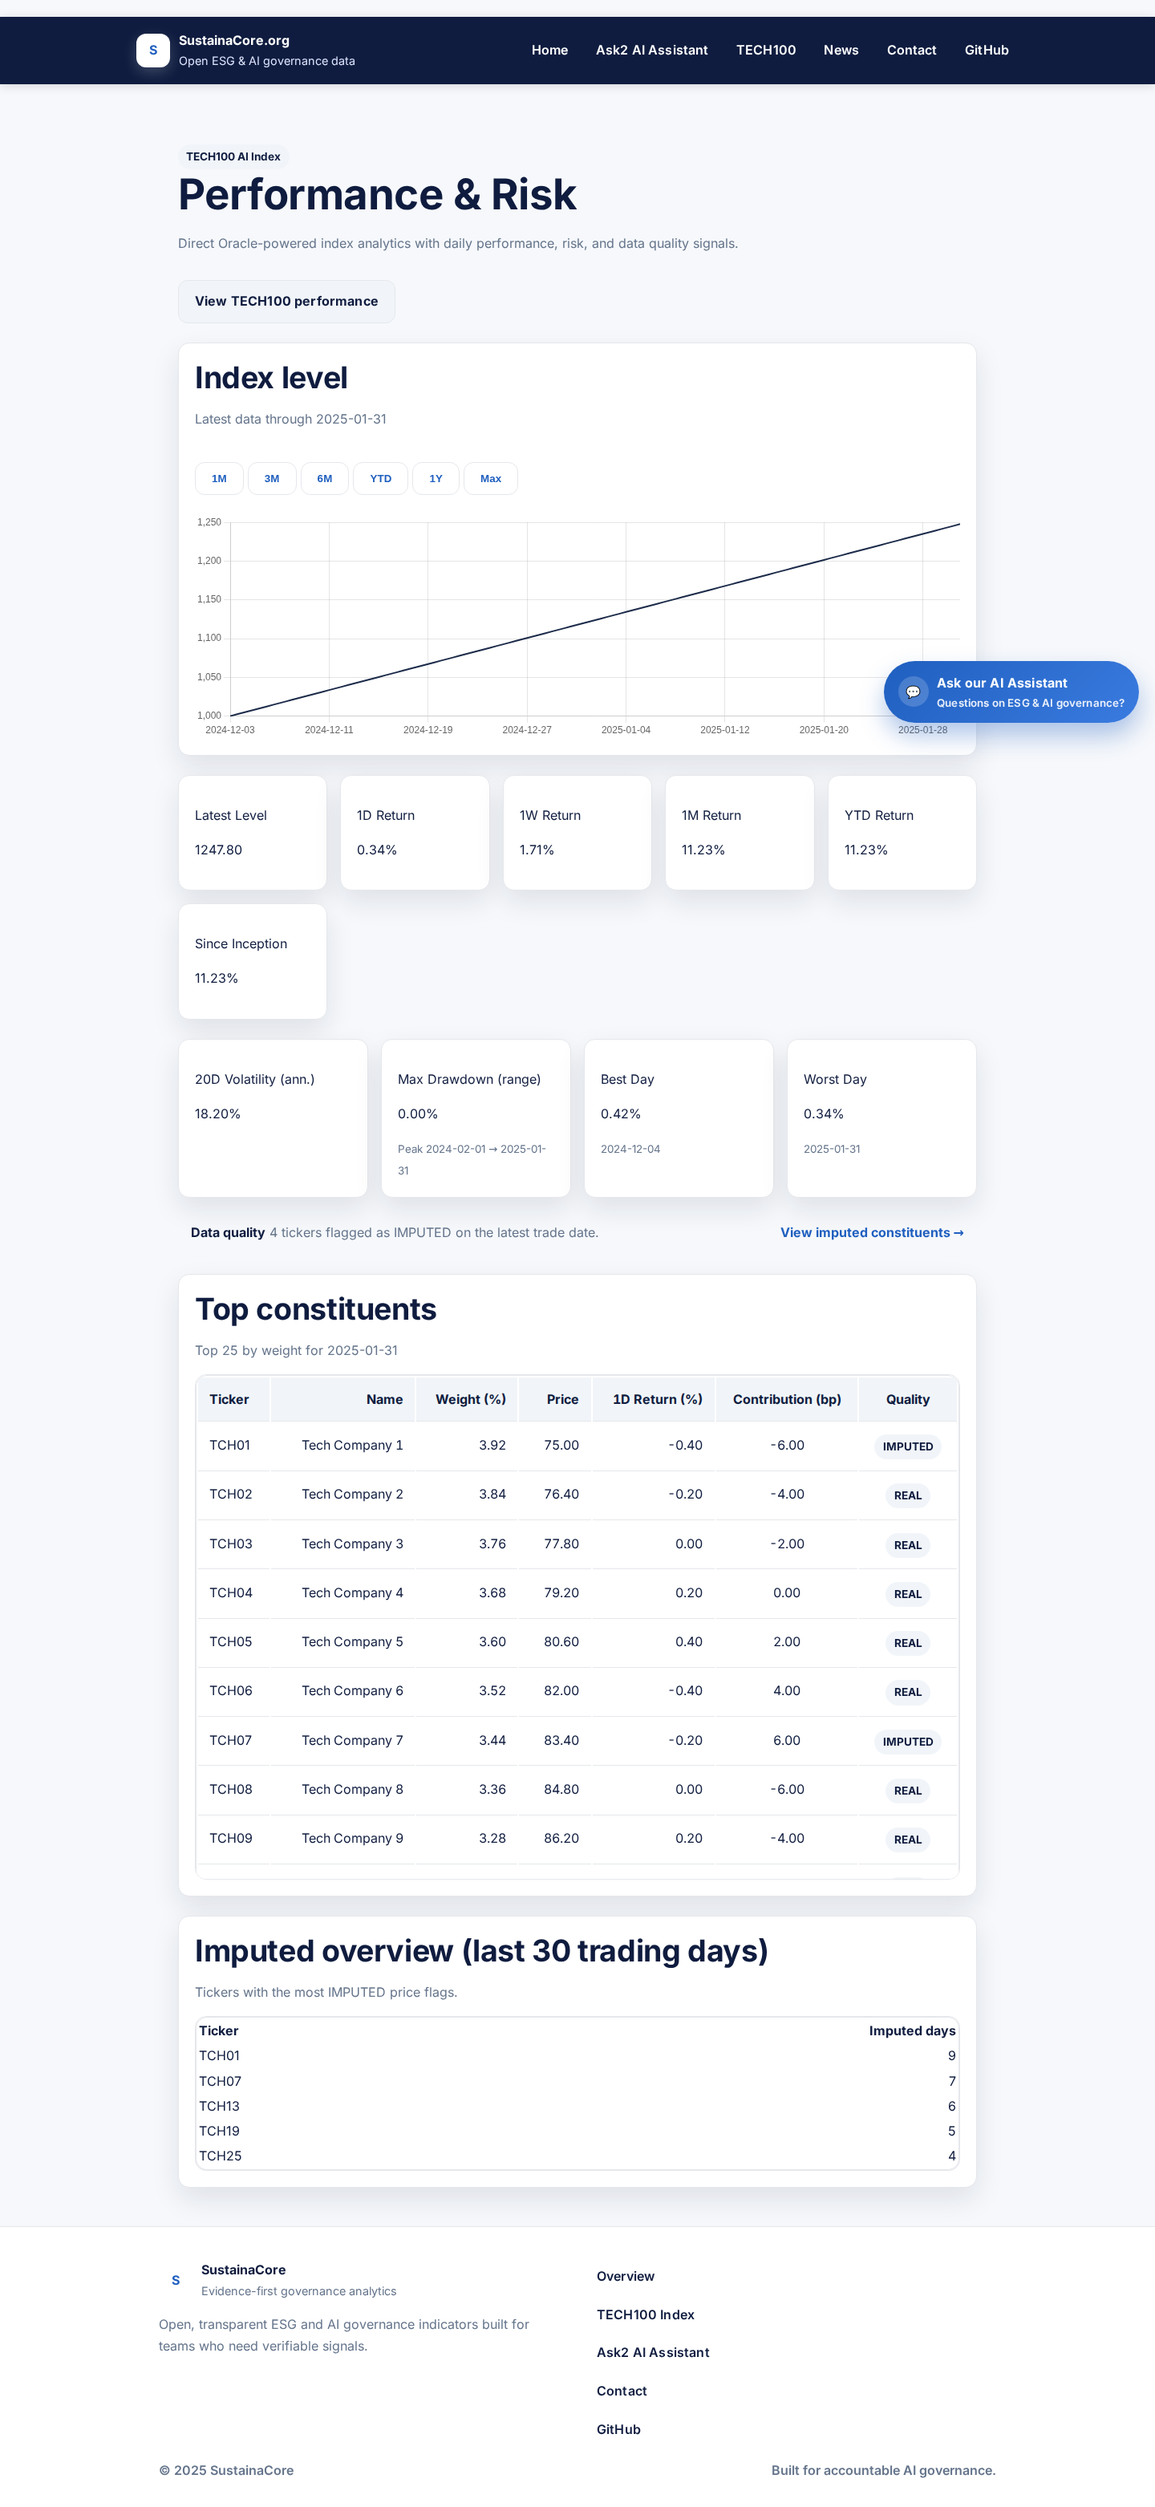
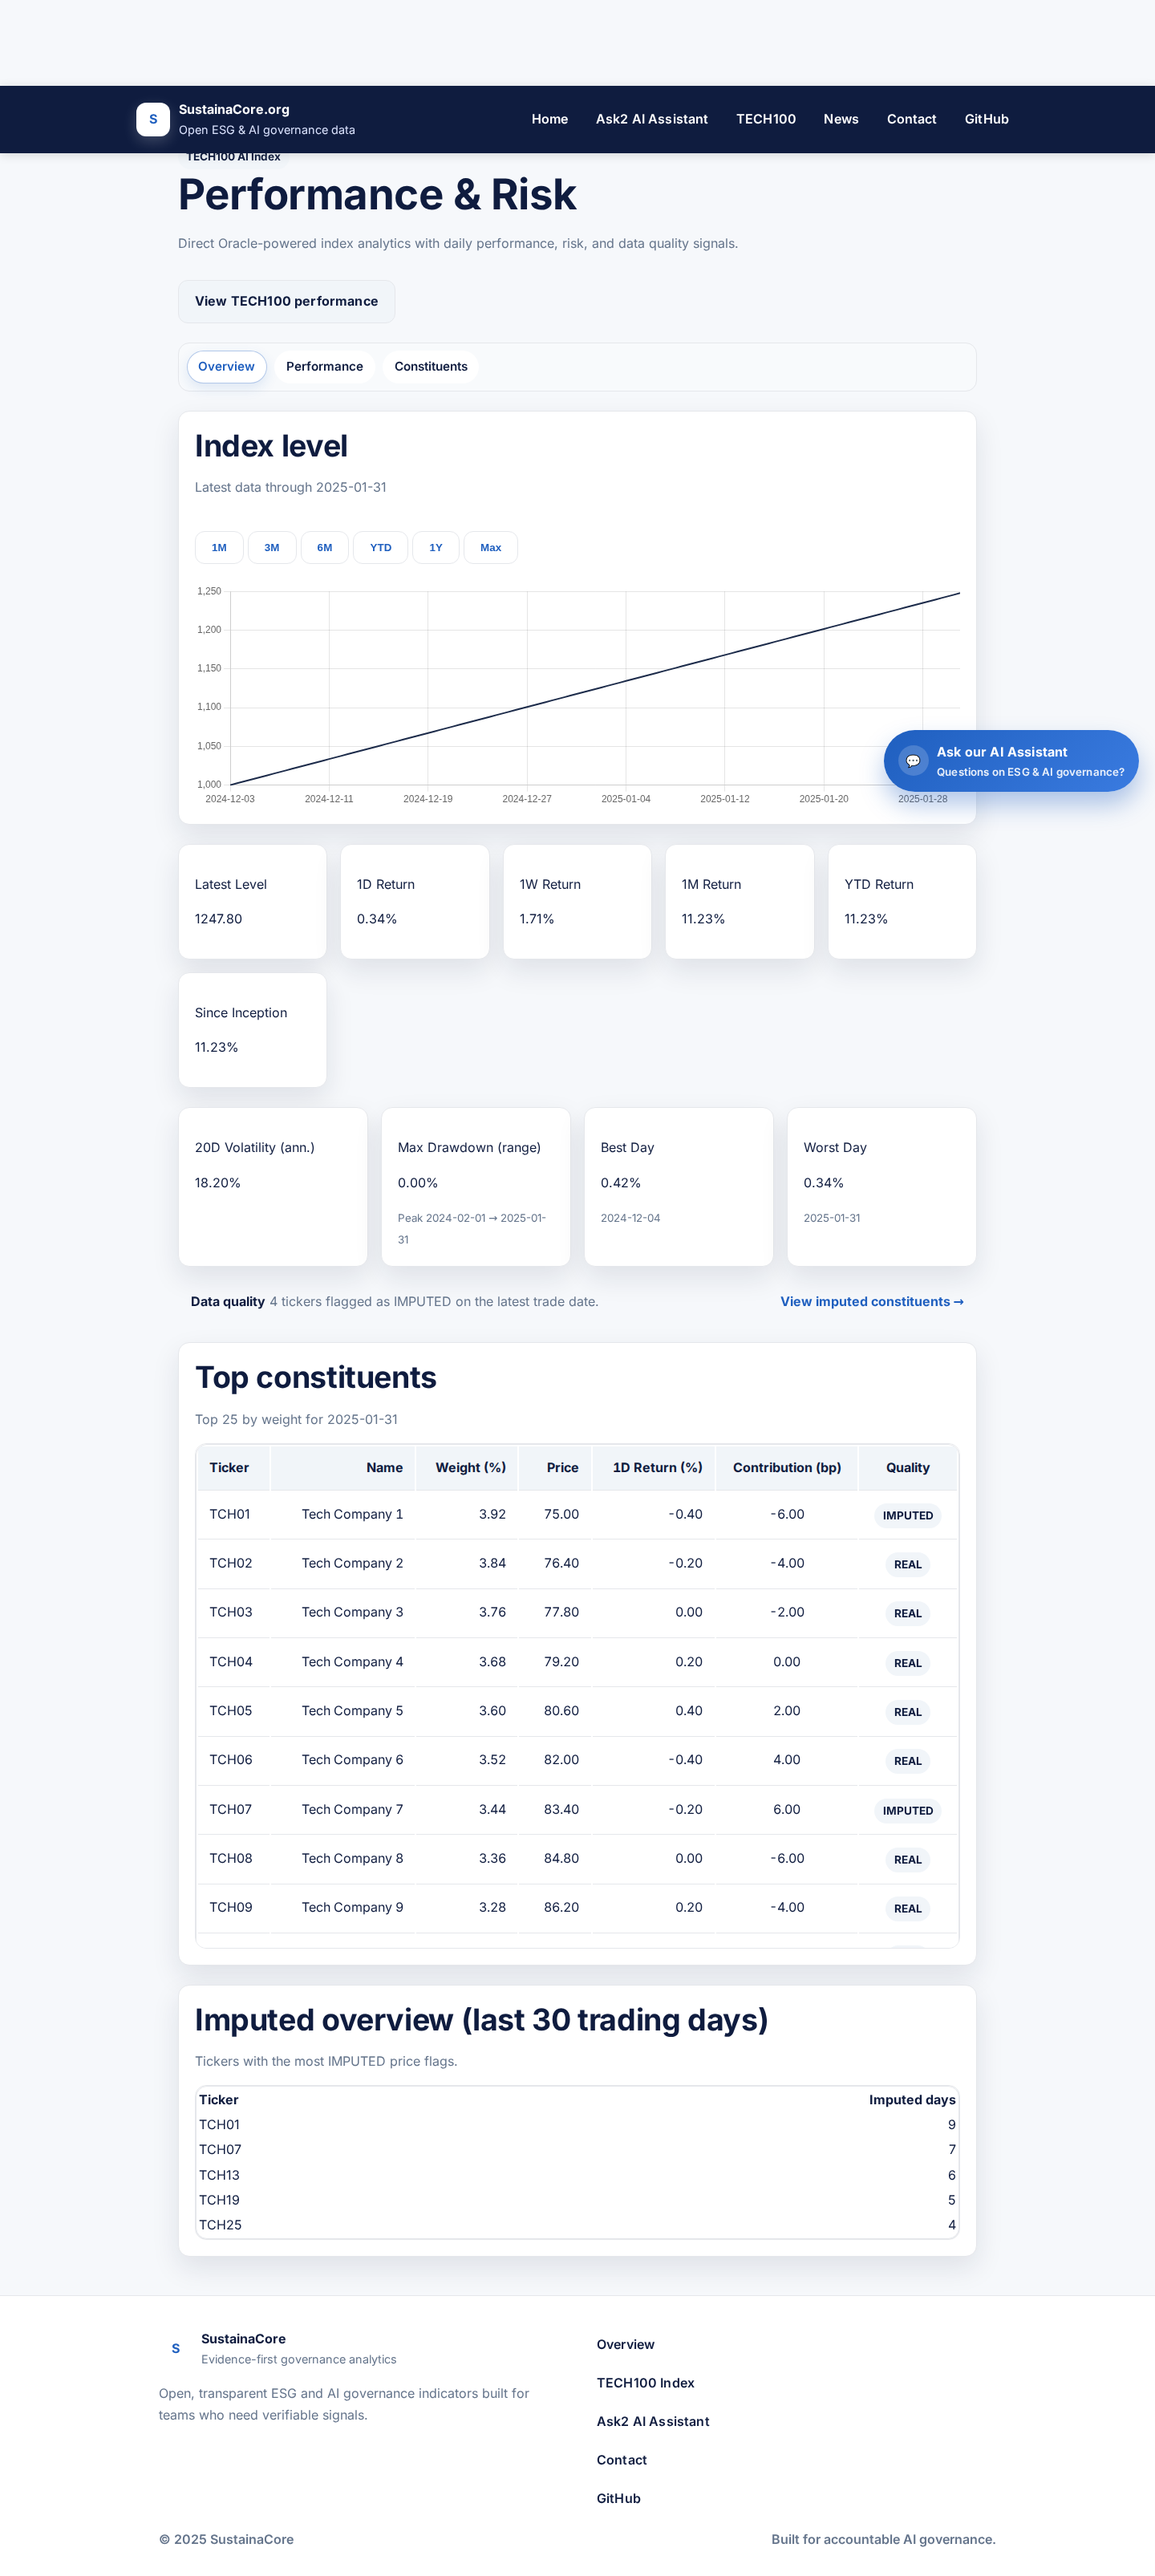
Add TECH100 nav and homepage-friendly screenshots

diff --git a/website_django/static/css/main.css b/website_django/static/css/main.css
@@ -1282,6 +1282,42 @@ textarea:focus {
     gap: 1.5rem;
 }
 
+.tech100-nav {
+    display: flex;
+    flex-wrap: wrap;
+    gap: 0.6rem;
+    align-items: center;
+    margin: 1rem 0 1.5rem;
+    padding: 0.6rem;
+    background: #f8fafc;
+    border: 1px solid var(--border);
+    border-radius: 14px;
+}
+
+.tech100-nav__link {
+    display: inline-flex;
+    align-items: center;
+    padding: 0.4rem 0.85rem;
+    border-radius: 999px;
+    font-weight: 600;
+    font-size: 0.95rem;
+    background: #fff;
+    color: var(--text);
+    border: 1px solid transparent;
+    transition: border-color 0.2s ease, box-shadow 0.2s ease;
+}
+
+.tech100-nav__link:hover {
+    border-color: rgba(31, 95, 191, 0.35);
+}
+
+.tech100-nav__link.is-active,
+.tech100-nav__link[aria-current="page"] {
+    border-color: rgba(31, 95, 191, 0.35);
+    box-shadow: 0 6px 16px rgba(31, 95, 191, 0.12);
+    color: var(--brand-blue);
+}
+
 .tech100-entry {
     margin-bottom: 1.5rem;
 }

diff --git a/website_django/templates/partials/tech100_nav.html b/website_django/templates/partials/tech100_nav.html
@@ -1,0 +1,23 @@
+<nav class="tech100-nav" aria-label="TECH100 navigation">
+  <a
+    class="tech100-nav__link {% if request.path == '/tech100/index/' %}is-active{% endif %}"
+    href="/tech100/index/"
+    {% if request.path == '/tech100/index/' %}aria-current="page"{% endif %}
+  >
+    Overview
+  </a>
+  <a
+    class="tech100-nav__link {% if request.path == '/tech100/performance/' %}is-active{% endif %}"
+    href="/tech100/performance/"
+    {% if request.path == '/tech100/performance/' %}aria-current="page"{% endif %}
+  >
+    Performance
+  </a>
+  <a
+    class="tech100-nav__link {% if request.path == '/tech100/constituents/' %}is-active{% endif %}"
+    href="/tech100/constituents/"
+    {% if request.path == '/tech100/constituents/' %}aria-current="page"{% endif %}
+  >
+    Constituents
+  </a>
+</nav>

diff --git a/website_django/templates/tech100_index_overview.html b/website_django/templates/tech100_index_overview.html
@@ -23,6 +23,8 @@
         <a class="btn btn--secondary" href="/tech100/performance/">View TECH100 performance</a>
       </div>
 
+      {% include "partials/tech100_nav.html" %}
+
       {% if data_error %}
         <div class="alert alert--warning" data-tech100-empty-state="1">
           Live TECH100 data is temporarily unavailable; please try again later.

diff --git a/website_django/templates/tech100_constituents.html b/website_django/templates/tech100_constituents.html
@@ -14,6 +14,8 @@
         <p class="muted">Daily holdings, weights, and quality flags from Oracle.</p>
       </div>
 
+      {% include "partials/tech100_nav.html" %}
+
       <div class="card tech100-index__filters">
         <label class="form-field">
           <span>Date</span>

diff --git a/website_django/templates/tech100_performance.html b/website_django/templates/tech100_performance.html
@@ -23,6 +23,8 @@
         </div>
       </div>
 
+      {% include "partials/tech100_nav.html" %}
+
       {% if data_error %}
         <div class="alert alert--warning" data-tech100-empty-state="1">
           Live TECH100 data is temporarily unavailable; please try again later.

diff --git a/website_django/templates/tech100_attribution.html b/website_django/templates/tech100_attribution.html
@@ -14,6 +14,8 @@
         <p class="muted">Contribution breakdown for the selected trade date.</p>
       </div>
 
+      {% include "partials/tech100_nav.html" %}
+
       <div class="card tech100-index__filters">
         <label class="form-field">
           <span>Date</span>

diff --git a/website_django/templates/tech100_stats.html b/website_django/templates/tech100_stats.html
@@ -14,6 +14,8 @@
         <p class="muted">Index-level metrics from SC_IDX_STATS_DAILY.</p>
       </div>
 
+      {% include "partials/tech100_nav.html" %}
+
       <div class="card tech100-index__filters">
         <label class="form-field">
           <span>Date</span>

diff --git a/website_django/templates/tech100.html b/website_django/templates/tech100.html
@@ -68,6 +68,8 @@
       </div>
     </div>
 
+    {% include "partials/tech100_nav.html" %}
+
     {% if tech100_error %}
       <div class="alert alert--warning">
         Live TECH100 data is temporarily unavailable; please try again later.
